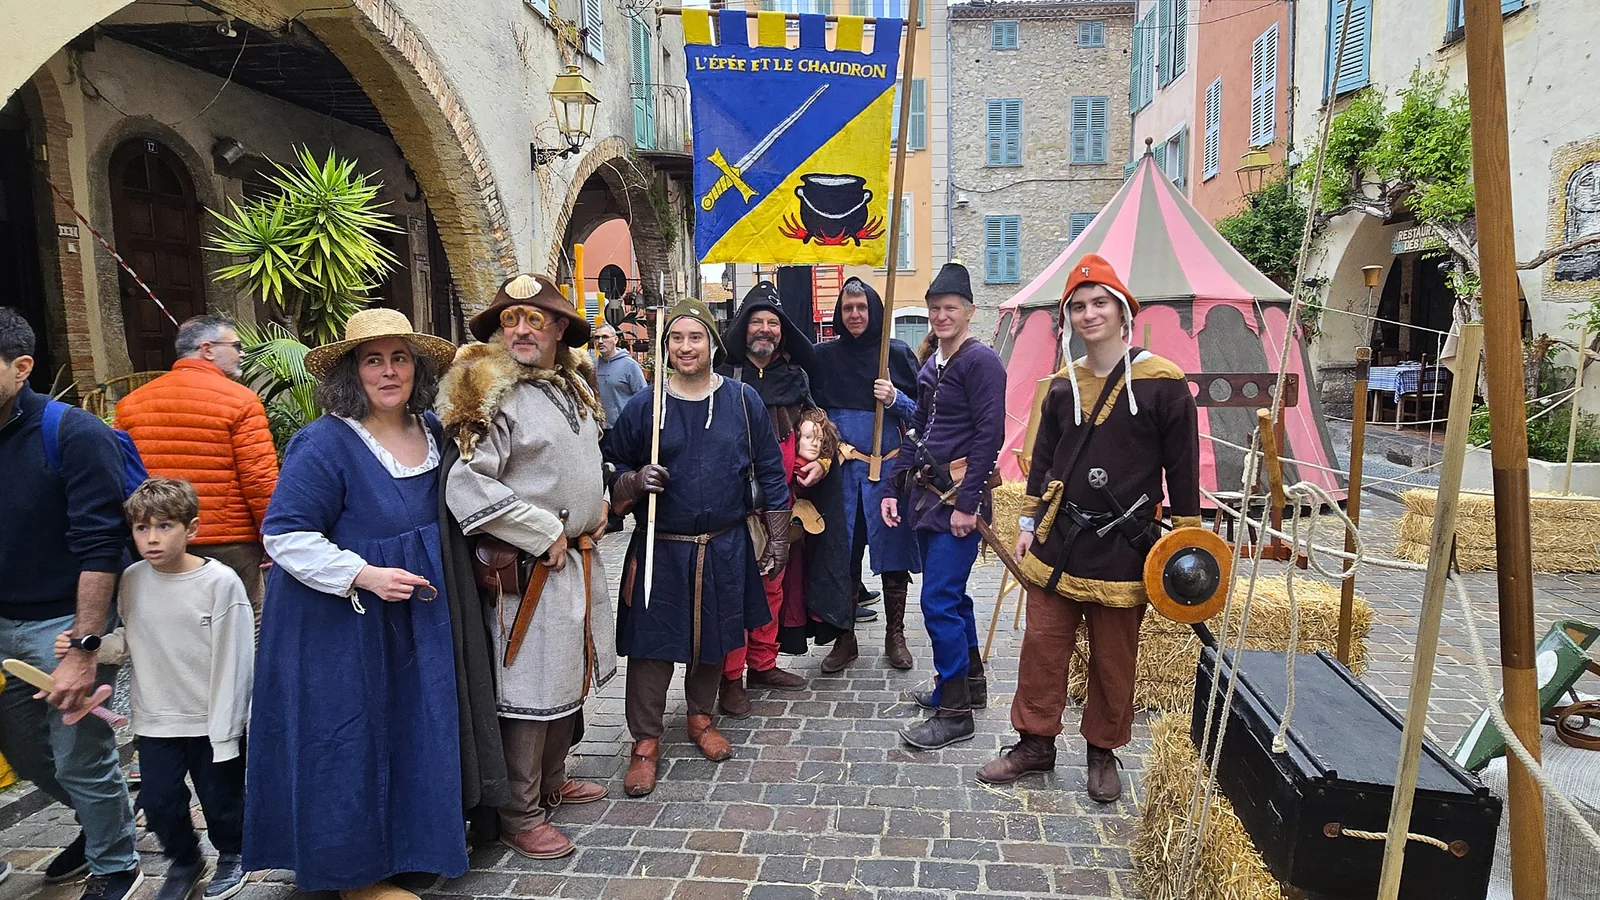
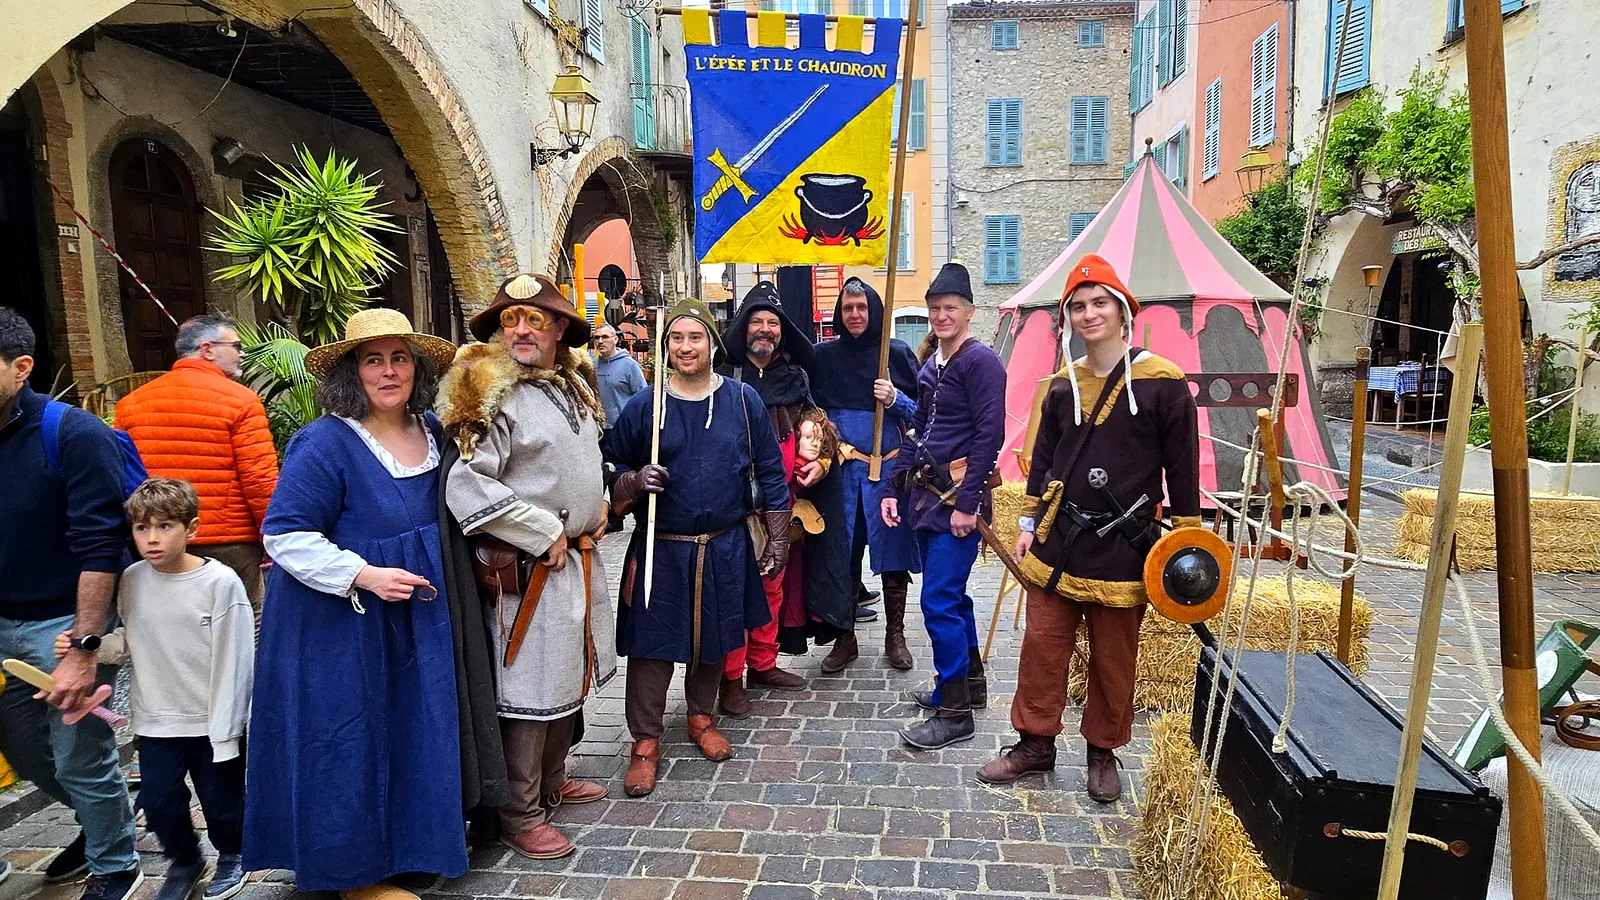
feat(site): les combats d'enfants ont leur fiche, et le peintre de cour son personnage
Deux manques signalés par les membres. Les épées en mousse et les boucliers
n'apparaissaient nulle part alors que c'est ce qui fait entrer les familles
dans la lice : la fiche suit celle du duel judiciaire, au même endroit du
programme. Joshua rejoint la mesnie avec son atelier de peintures.

La photo du hero était fade pour une scène de rue à l'ombre : bleu de la
bannière, tuniques et pierre reprennent de la densité, sans virer au criard
comme le faisait un réglage plus poussé. Le fichier est corrigé une fois pour
toutes plutôt que filtré à l'affichage, pour que la copie hors ligne soit la
bonne. L'original reste récupérable dans l'historique.

Axe : Métier & fiabilité

diff --git a/index.html b/index.html
@@ -246,6 +246,16 @@
             </div>
           </article>
           <article class="card module-card reveal" data-category="armes" tabindex="0" role="button" aria-haspopup="dialog">
+            <img src="assets/img/thumbs/photo-a-venir.webp" alt="Photo à venir des combats d’enfants en lice" width="720" height="520" loading="lazy" decoding="async">
+            <div><h3>Les enfants en lice</h3><p>Épées en mousse et boucliers : les enfants combattent à leur tour, dans la lice.</p></div>
+            <div class="module-details" hidden>
+              <p>Entre deux passages d’adultes, la lice revient aux enfants. Épées en mousse, boucliers à leur taille : le matériel est prévu pour eux, et un membre de l’association arbitre chaque combat du début à la fin.</p>
+              <p>Les règles sont celles des grands, expliquées avant d’entrer : le salut, la garde, la touche. Les passages sont courts pour que tout le monde y vienne au fil de la journée, et les parents suivent depuis le bord de la lice.</p>
+              <h4>Points abordés</h4>
+              <ul><li>Salut, garde et touche, comme chez les grands</li><li>Épées en mousse et boucliers adaptés à la taille</li><li>Passages courts et arbitrés, plusieurs fois dans la journée</li></ul>
+            </div>
+          </article>
+          <article class="card module-card reveal" data-category="armes" tabindex="0" role="button" aria-haspopup="dialog">
             <img src="assets/img/thumbs/animations-archerie.webp" alt="Archer bandant un arc long devant le camp" width="720" height="520" loading="lazy" decoding="async">
             <div><h3>Archerie</h3><p>L’arc, les flèches et la puissance d’une arme simple en apparence.</p></div>
             <div class="module-details" hidden>

diff --git a/assets/js/personnages.js b/assets/js/personnages.js
@@ -18,5 +18,6 @@ window.EC_PERSONNAGES = [
   {img:'assets/img/personnages/personnages-perrette.webp', name:'Perrette', role:'Bugadière et tisserande', hook:'La lessive à la cendre avec un seau percé… quel travail pour un petit bout de galon !', alt:'Perrette, bugadière, à la lessive'},
   {img:'assets/img/personnages/personnages-thibault-le-jeune.webp', name:'Thibault le jeune', role:'Apprenti arbalétrier', hook:'Il s’adonne à l’arbalestrie. Mieux vaut, pour l’instant, protéger vos têtes.', alt:'Thibault le jeune, apprenti arbalétrier'},
   {img:'assets/img/personnages/personnages-ecarlate.webp', name:'Sire l’Écarlate', role:'Archer et cracheur de feu', hook:'Toujours prêt à échanger quelques coups d’épée. La nuit venue, il s’embrase de mille feux.', alt:'Sire l’Écarlate, archer'},
-  {img:'assets/img/personnages/personnages-bougonne.webp', name:'La Bougonne', role:'Tisserande', hook:'Rieuse ou grognon ? Envoyez donc quelqu’un d’autre tâter son humeur.', alt:'La Bougonne, tisserande'}
+  {img:'assets/img/personnages/personnages-bougonne.webp', name:'La Bougonne', role:'Tisserande', hook:'Rieuse ou grognon ? Envoyez donc quelqu’un d’autre tâter son humeur.', alt:'La Bougonne, tisserande'},
+  {img:'assets/img/personnages/personnages-portrait-a-venir.webp', name:'Joshua', role:'Peintre de cour', hook:'Laissez le tracé de son pinceau immortaliser vos plus grands succès… ou vos plus grands embarras. Au choix.', alt:'Portrait de Joshua à venir', texte:'Atelier : illustration et fabrication de peintures médiévales.'}
 ];
